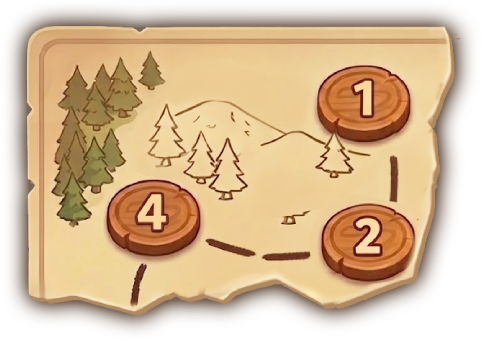
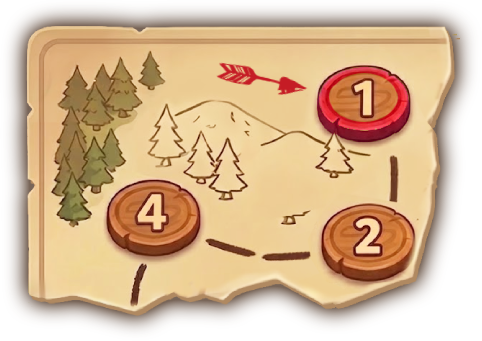
upgrade event panel

Changed region(s): [[0.4357, 0.176, 0.8714, 0.4399]]

diff --git a/src/core/utils/EventUtils.ts b/src/core/utils/EventUtils.ts
@@ -1,4 +1,4 @@
-import EventsConfiguration, { EventAssetConfiguration } from '../configuration/EventsConfiguration';
+import EventsConfiguration, { EventAssetConfiguration, EventMainImageOverrideConfiguration } from '../configuration/EventsConfiguration';
 import PrizesConfiguration from '../configuration/PrizesConfiguration';
 import ForestDao from '../dao/ForestDao';
 import ReplicaDao from '../dao/ReplicaDao';
@@ -134,12 +134,12 @@ export default class EventUtils {
         }
     }
 
-    public static getMainImage(eventType: EventType, eventId?: string): string {
+    public static getMainImage(eventType: EventType, eventId?: string, levelNumber?: number): string {
         switch (eventType) {
             case EventType.lukoshko:
                 return 'lukoshkoHeader';
             case EventType.configured:
-                return this.getEventConfigStringValue(eventId, "mainImage", "tasks");
+                return this.getConfiguredEventMainImage(eventId, levelNumber);
             default:
                 throw new NeverError(eventType);
         }
@@ -149,12 +149,12 @@ export default class EventUtils {
         return this.getEventConfigNumberValue(eventId, "iconScale", 0.86 * 0.95);
     }
 
-    public static getMainImageScale(eventType: EventType, eventId?: string): number {
+    public static getMainImageScale(eventType: EventType, eventId?: string, levelNumber?: number): number {
         switch (eventType) {
             case EventType.lukoshko:
                 return 1.45;
             case EventType.configured:
-                return this.getEventConfigNumberValue(eventId, "mainImageScale", 1.18);
+                return this.getConfiguredEventMainImageScale(eventId, levelNumber);
             default:
                 throw new NeverError(eventType);
         }
@@ -568,6 +568,48 @@ export default class EventUtils {
             return eventId || "";
         }
         return eventConfig[key];
+    }
+
+    private static getConfiguredEventMainImage(eventId: string, levelNumber?: number): string {
+        const eventConfig = EventsConfiguration.getById(eventId);
+        const override = this.getConfiguredEventMainImageOverride(eventId, levelNumber);
+        if (override && override.mainImage) {
+            return override.mainImage;
+        }
+        return eventConfig && eventConfig.mainImage ? eventConfig.mainImage : "tasks";
+    }
+
+    private static getConfiguredEventMainImageScale(eventId: string, levelNumber?: number): number {
+        const eventConfig = EventsConfiguration.getById(eventId);
+        const override = this.getConfiguredEventMainImageOverride(eventId, levelNumber);
+        if (override && override.mainImageScale != null) {
+            return Number(override.mainImageScale);
+        }
+        return eventConfig && eventConfig.mainImageScale != null ? Number(eventConfig.mainImageScale) : 1.18;
+    }
+
+    private static getConfiguredEventMainImageOverride(eventId: string, levelNumber?: number): EventMainImageOverrideConfiguration {
+        const eventConfig = EventsConfiguration.getById(eventId);
+        if (!eventConfig || !eventConfig.mainImageOverrides || eventConfig.mainImageOverrides.length == 0) {
+            return null;
+        }
+
+        const resolvedLevelNumber = levelNumber || this.getConfiguredEventDisplayLevelNumber(eventId);
+        return eventConfig.mainImageOverrides.filter(override => override && override.levels && override.levels.indexOf(resolvedLevelNumber) != -1).shift();
+    }
+
+    private static getConfiguredEventDisplayLevelNumber(eventId: string): number {
+        if (this.activeLevelSession && this.activeLevelSession.eventId == eventId) {
+            return this.activeLevelSession.levelIndex + 1;
+        }
+
+        const totalLevels = this.getEventLevelsCount(eventId);
+        const progress = this.getEventProgress(eventId);
+        if (totalLevels > 0) {
+            return Math.max(1, Math.min(progress + 1, totalLevels));
+        }
+
+        return Math.max(1, progress + 1);
     }
 
     private static getEventConfigStringValue(eventId: string, key: "icon" | "mainImage", fallback: string): string {

diff --git a/src/view/component/house/SideEventPanel.ts b/src/view/component/house/SideEventPanel.ts
@@ -21,7 +21,9 @@ type SideEventState = {
 export default class SideEventPanel extends ClosablePanel {
 
     private static readonly PANEL_SCALE = 1.1;
-    private static readonly EVENT1_CHARACTER_OFFSET_Y = -35;
+    private static readonly EVENT1_MAP2_UNLOCK_PROGRESS = 3;
+    private static readonly EVENT1_MAP3_UNLOCK_PROGRESS = 7;
+    private static readonly EVENT1_CHARACTER_OFFSET_Y = -45;
     private static readonly EVENT1_CHARACTER_MOVE_DELAY = 1200;
     private static readonly EVENT1_CHARACTER_MOVE_DURATION = 540;
 
@@ -75,8 +77,14 @@ export default class SideEventPanel extends ClosablePanel {
         hitArea.inputEnabled = true;
 
         this.attachPsdSprite('sideEvent1PanelBottom', 'panelBottom', -3, 458.5);
-        const eventImage = this.attachPsdSprite('sideEvent1EventImage', 'eventImage', -0.5, -66.5);
+        const eventImage = this.attachPsdSprite(
+            EventUtils.getMainImage(this.eventInfo.eventType, this.eventInfo.eventId, eventState.nextLevelNumber),
+            'eventImage',
+            -0.5,
+            -66.5
+        );
         eventImage.inputEnabled = true;
+        eventImage.scale.set(EventUtils.getMainImageScale(this.eventInfo.eventType, this.eventInfo.eventId, eventState.nextLevelNumber));
         this.attachPsdSprite('sideEvent1FadeTop', 'fadeTop', -18.5, -485.5);
         this.attachStretchedPsdSprite('sideEvent1FadeMiddle', 'fadeMiddle', -6.5, -85, 709, 644);
         this.attachPsdSprite('sideEvent1FadeBottom', 'fadeBottom', -18.5, 343);
@@ -87,8 +95,10 @@ export default class SideEventPanel extends ClosablePanel {
         this.attachPsdSprite('sideEvent1FrameBottom', 'frameBottom', -4, 345.5);
 
         this.attachPsdSprite('sideEvent1MapBg', 'mapBg', 2, 148.5);
-        this.attachPsdSprite('sideEvent1Map3', 'map3', 5, 157);
-        this.attachPsdSprite('sideEvent1Map2', 'map2', -105.5, 290);
+        const map3 = this.attachPsdSprite('sideEvent1Map3', 'map3', 5, 157);
+        map3.visible = eventState.progress >= SideEventPanel.EVENT1_MAP3_UNLOCK_PROGRESS;
+        const map2 = this.attachPsdSprite('sideEvent1Map2', 'map2', -105.5, 290);
+        map2.visible = eventState.progress >= SideEventPanel.EVENT1_MAP2_UNLOCK_PROGRESS;
         this.attachPsdSprite('sideEvent1Map1', 'map1', -139.5, 36);
         this.createEvent1Character();
 
@@ -181,10 +191,10 @@ export default class SideEventPanel extends ClosablePanel {
         titleBg.scale.set(1.62, 1.14);
         titleBg.y = -360;
 
-        let icon = this.attachSprite(EventUtils.getMainImage(this.eventInfo.eventType, this.eventInfo.eventId), 'eventIcon');
+        let icon = this.attachSprite(EventUtils.getMainImage(this.eventInfo.eventType, this.eventInfo.eventId, eventState.nextLevelNumber), 'eventIcon');
         icon.anchor.set(0.5);
         icon.y = -200;
-        icon.scale.set(EventUtils.getMainImageScale(this.eventInfo.eventType, this.eventInfo.eventId));
+        icon.scale.set(EventUtils.getMainImageScale(this.eventInfo.eventType, this.eventInfo.eventId, eventState.nextLevelNumber));
 
         let closeButton = this.attachButton('closeButtonViolet', () => this.onCloseButtonClick());
         closeButton.x = 330;

diff --git a/src/core/configuration/EventsConfiguration.ts b/src/core/configuration/EventsConfiguration.ts
@@ -3,6 +3,12 @@ export type EventAssetConfiguration = {
     path: string;
 };
 
+export type EventMainImageOverrideConfiguration = {
+    levels: number[];
+    mainImage: string;
+    mainImageScale?: number;
+};
+
 export type EventConfiguration = {
     eventId: string;
     name: string;
@@ -14,6 +20,7 @@ export type EventConfiguration = {
     iconScale?: number;
     mainImage?: string;
     mainImageScale?: number;
+    mainImageOverrides?: EventMainImageOverrideConfiguration[];
     assets?: EventAssetConfiguration[];
 };
 
@@ -31,6 +38,12 @@ export default class EventsConfiguration {
             iconScale: 0.817,
             mainImage: "sideEvent1EventImage",
             mainImageScale: 1,
+            mainImageOverrides: [
+                {
+                    levels: [2, 4],
+                    mainImage: "sideEvent1EventImage2"
+                }
+            ],
             assets: [
                 { key: "sideEvent1EventButton", path: "assets/sideEvent1/event_button.png" },
                 { key: "sideEvent1FadeBottom", path: "assets/sideEvent1/event_fade_bottom.png" },
@@ -40,6 +53,7 @@ export default class EventsConfiguration {
                 { key: "sideEvent1FrameMiddle", path: "assets/sideEvent1/event_frame_middle (source).png" },
                 { key: "sideEvent1FrameTop", path: "assets/sideEvent1/event_frame_top.png" },
                 { key: "sideEvent1EventImage", path: "assets/sideEvent1/event_image.png" },
+                { key: "sideEvent1EventImage2", path: "assets/sideEvent1/event_image2.png" },
                 { key: "sideEvent1PanelBottom", path: "assets/sideEvent1/event_panel_bottom.png" },
                 { key: "sideEvent1PanelClose", path: "assets/sideEvent1/event_panel_close.png" },
                 { key: "sideEvent1PanelRibbon", path: "assets/sideEvent1/event_panel_ribbon.png" },

diff --git a/src/view/screen/BaseForestScreen.ts b/src/view/screen/BaseForestScreen.ts
@@ -130,7 +130,11 @@ export default abstract class BaseForestScreen extends DialogScreen {
 
         if (AdminService.isSkipMode() || ForestScreen.skipNextTime) {
             ForestScreen.skipNextTime = false;
-            user.incrementCurrentForest();
+            if (EventUtils.hasActiveLevelSession()) {
+                EventUtils.completeActiveEventLevel();
+            } else {
+                user.incrementCurrentForest();
+            }
             user.setJustCompletedLevel(true);
             this.startScreen(HouseScreen, true, false)
             return;
